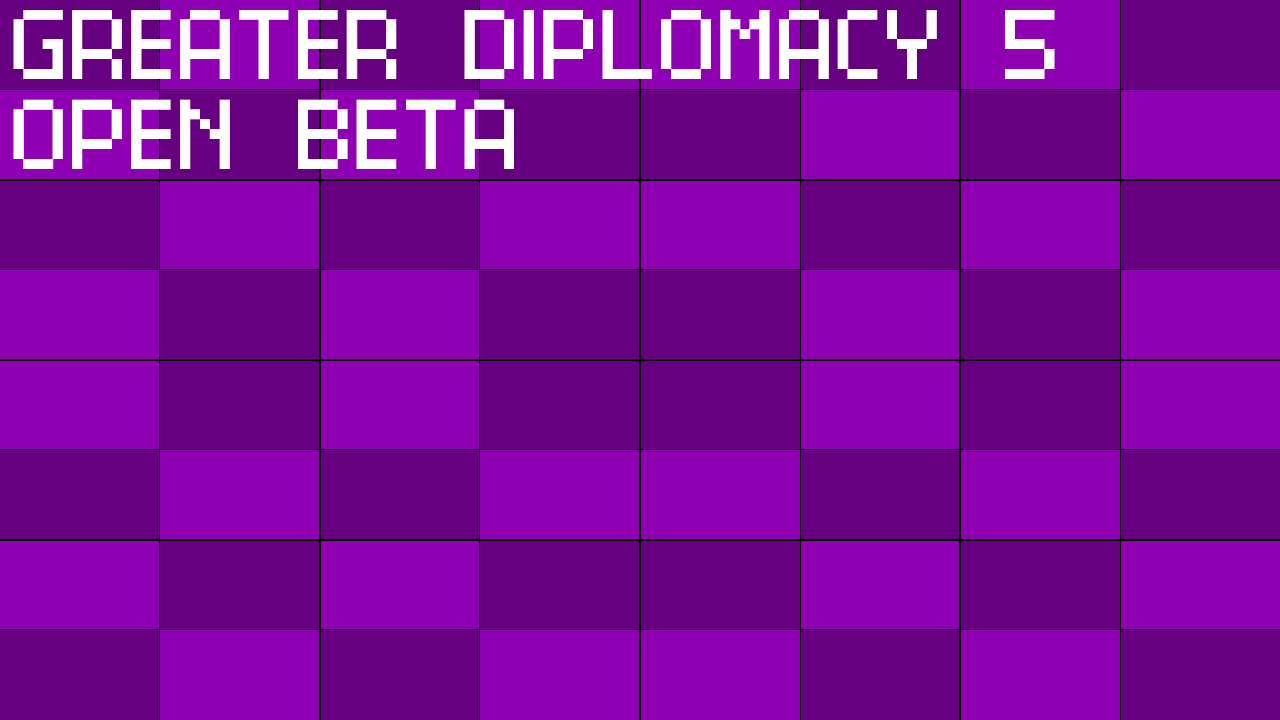
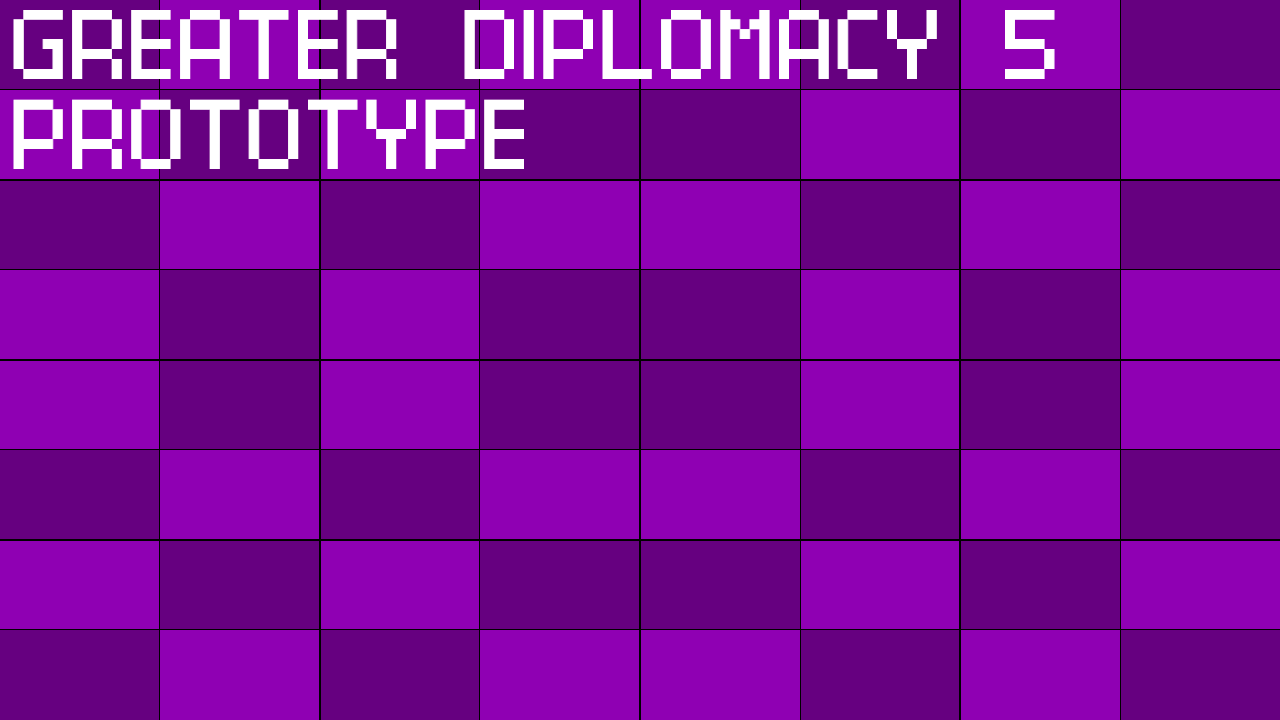
this is more of a prototype, not really an open beta

Changed region(s): [[0.0, 0.1222, 0.4062, 0.2444], [0.0, 0.1222, 0.0312, 0.1528]]

diff --git a/main.py b/main.py
@@ -35,7 +35,7 @@ from screens.map_related_screens.faction import Faction_Screen, Faction_Territor
 from screens.select_base_map import Select_Base_Map
 from screens.random_setup import Random_Setup
 
-pygame.display.set_caption("Greater Diplomacy 5")
+pygame.display.set_caption("Greater Diplomacy 5 Prototype")
 
 class Controller:
     def __init__(self):